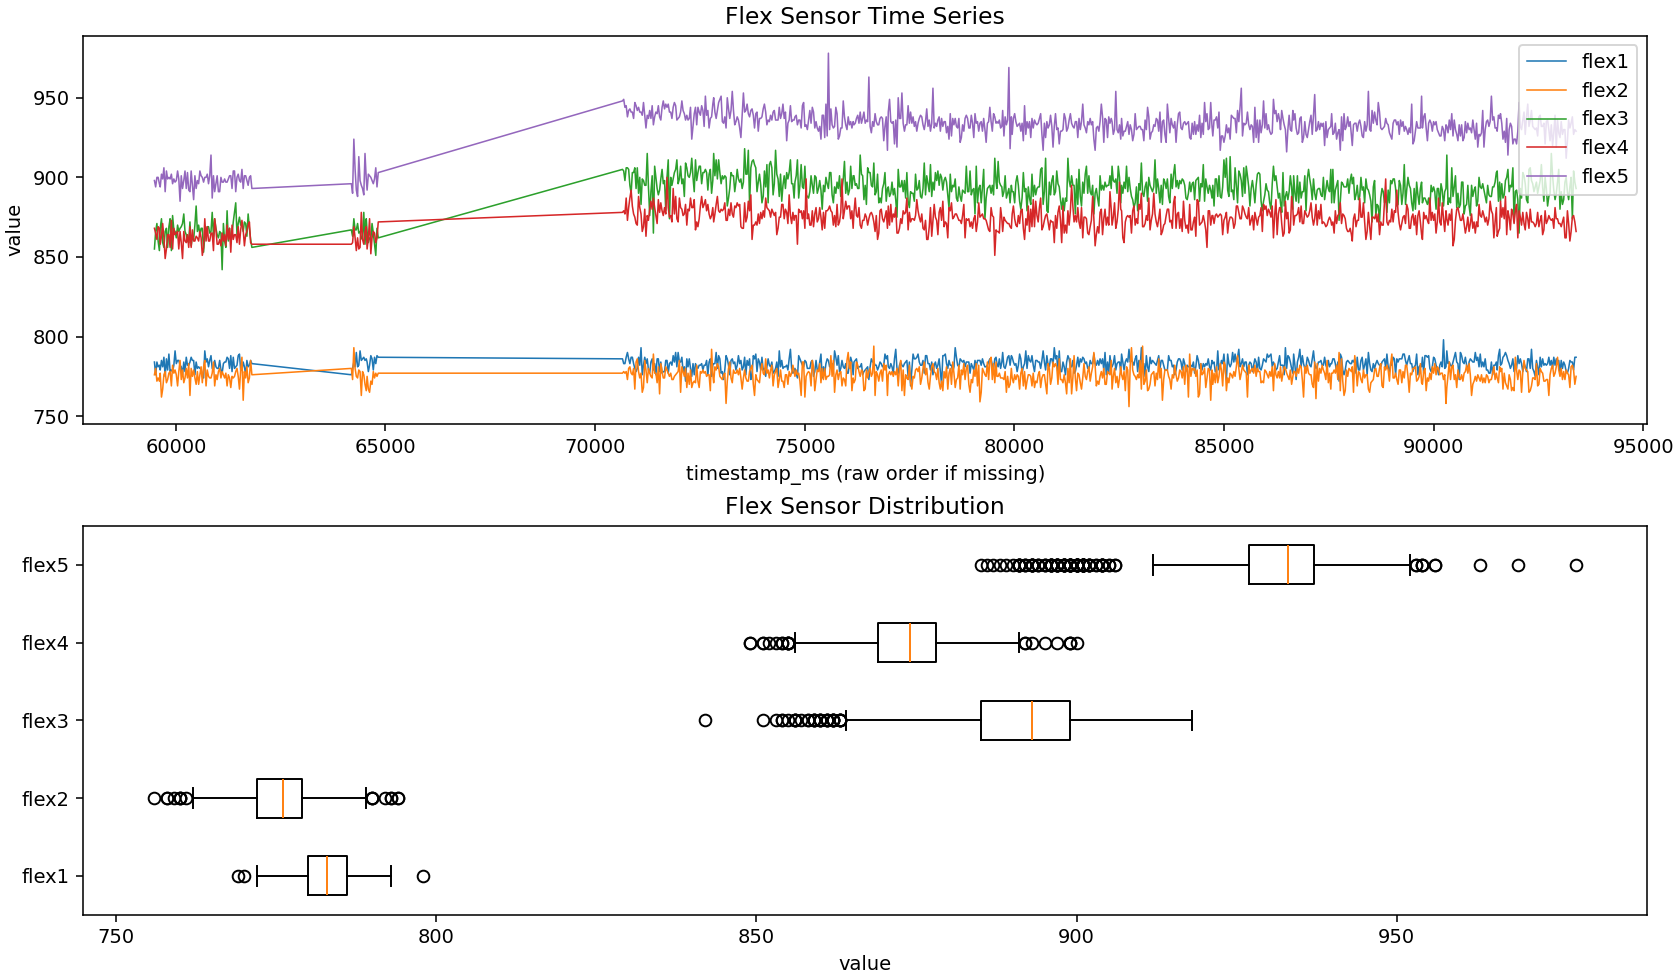
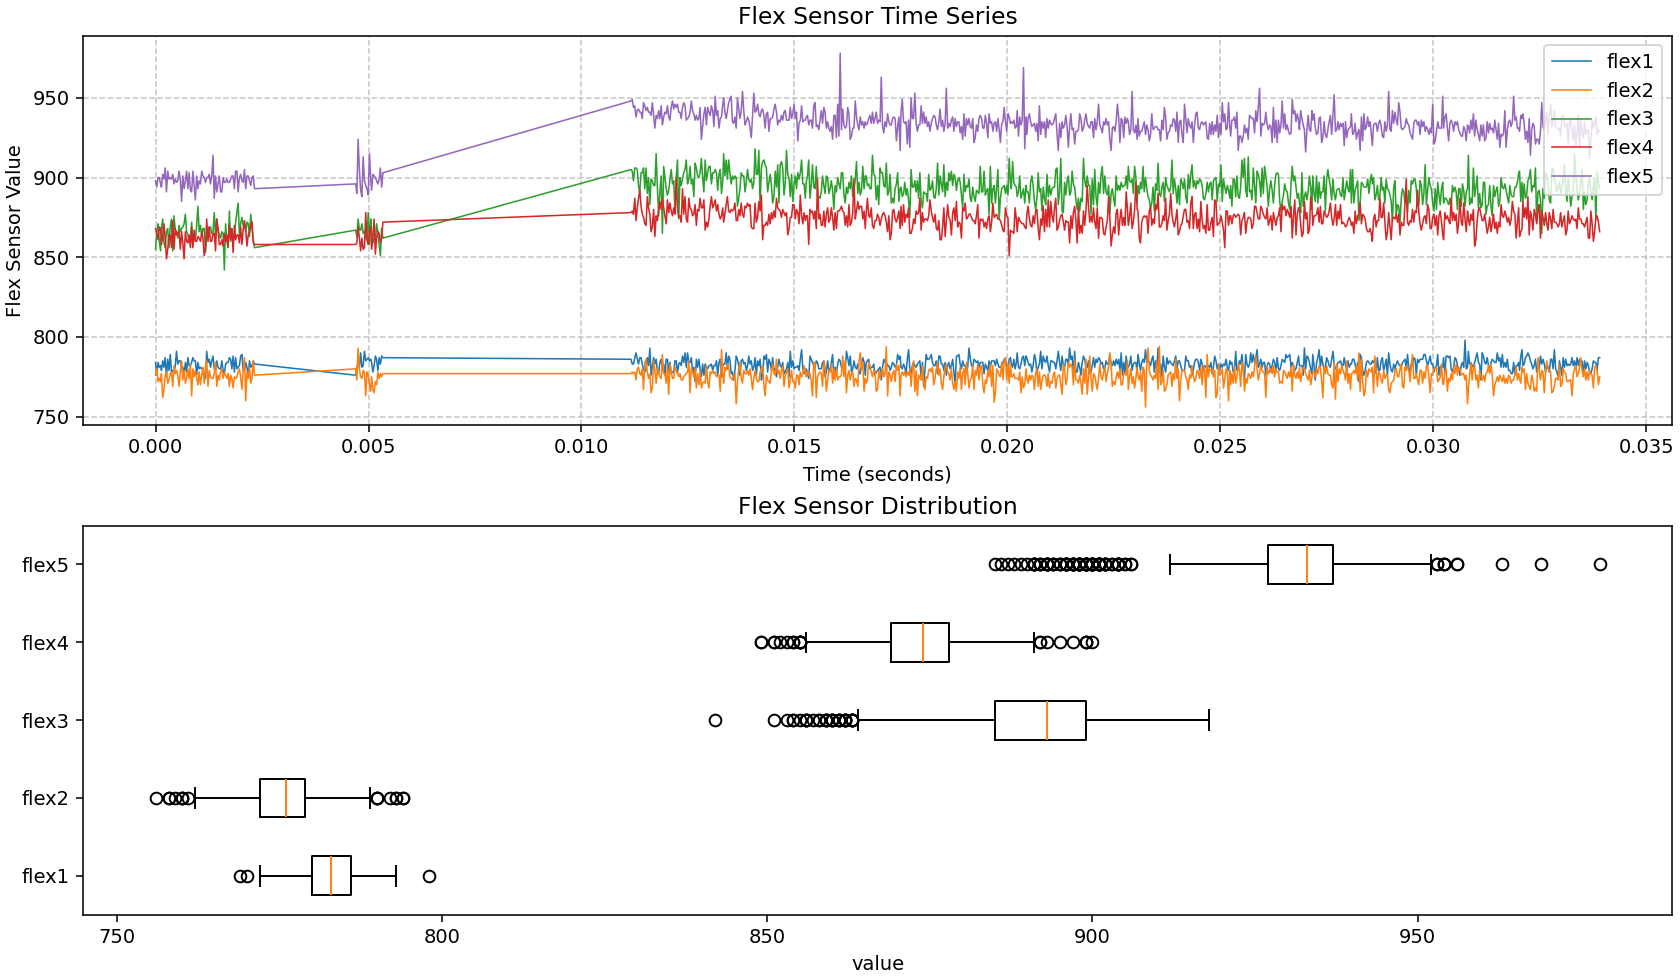
fix plot_datasets_unified.py & datasetplots

diff --git a/plot_datasets_unified.py b/plot_datasets_unified.py
@@ -1,6 +1,7 @@
 from __future__ import annotations
 
 import argparse
+import numpy as np
 from pathlib import Path
 from flexplot import downsample, iter_group_dirs, load_series, plot_flex
 
@@ -30,6 +31,23 @@ def parse_args() -> argparse.Namespace:
     return parser.parse_args()
 
 
+def process_timestamps(timestamps: np.ndarray) -> np.ndarray:
+    """타임스탬프를 정규화하고 유효성을 검사합니다."""
+    if len(timestamps) == 0:
+        return np.array([])
+    
+    # 첫 번째 타임스탬프를 0으로 하여 상대적 시간으로 변환
+    t_start = timestamps[0]
+    normalized = (timestamps - t_start) / 1000.0  # 밀리초를 초로 변환
+    
+    # 비정상적인 타임스탬프 검출 (예: 큰 점프나 음수 값)
+    if np.any(np.diff(normalized) < 0) or np.any(normalized > 60):  # 60초 이상은 비정상으로 간주
+        # 인덱스 기반 시간으로 대체
+        print("⚠ 비정상 타임스탬프 감지됨 - 인덱스 기반 시간으로 대체")
+        return np.arange(len(timestamps)) * (1.0/33.3)  # 33.3Hz 기준
+    
+    return normalized
+
 def main() -> None:
     args = parse_args()
     root = args.root.expanduser().resolve()
@@ -48,13 +66,27 @@ def main() -> None:
     for letter, index, folder in groups:
         label = letter if index is None else f"{letter}/{index}"
         print(f"Plotting {label} from {folder}")
-        timestamps, series = load_series(folder)
-        ts_ds, series_ds = downsample(timestamps, series, ds_target)
-        target_dir = save_dir / letter
-        if index is not None:
-            target_dir /= index
-        outfile = target_dir / "flex.png"
-        plot_flex(ts_ds, series_ds, series, outfile)
+        try:
+            timestamps, series = load_series(folder)
+            
+            # 타임스탬프 정규화 및 처리
+            normalized_timestamps = process_timestamps(timestamps)
+            
+            # 다운샘플링
+            ts_ds, series_ds = downsample(normalized_timestamps, series, ds_target)
+            
+            # 저장 경로 설정 및 플롯 생성
+            target_dir = save_dir / letter
+            if index is not None:
+                target_dir /= index
+            outfile = target_dir / "flex.png"
+            
+            # 플롯 생성
+            plot_flex(ts_ds, series_ds, series, outfile)
+            
+        except Exception as e:
+            print(f"⚠ {label} 처리 중 오류 발생: {e}")
+            continue  # 오류가 발생해도 다음 파일 처리 계속
 
 
 if __name__ == "__main__":

diff --git a/flexplot.py b/flexplot.py
@@ -42,11 +42,12 @@ def load_series(root: Path) -> Tuple[np.ndarray, Dict[str, np.ndarray]]:
         ts_raw = row.get("timestamp_ms")
         if ts_raw:
             try:
-                timestamps.append(float(ts_raw))
+                ts_val = float(ts_raw)
+                timestamps.append(ts_val)
             except ValueError:
-                timestamps.append(float(len(timestamps)))
+                continue  # 잘못된 타임스탬프는 건너뜀
         else:
-            timestamps.append(float(len(timestamps)))
+            continue  # 타임스탬프 없는 행은 건너뜀
 
         for col in FLEX_COLS:
             val = row.get(col, "")
@@ -103,11 +104,19 @@ def plot_flex(
     """Create time-series and boxplot figure."""
     fig, axes = plt.subplots(2, 1, figsize=(12, 7), constrained_layout=True)
 
+    # 타임스탬프를 0초부터 시작하도록 정규화
+    if len(timestamps) > 0:
+        t_start = timestamps[0]
+        t_seconds = (timestamps - t_start) / 1000.0  # ms를 초로 변환
+    else:
+        t_seconds = np.array([])
+
     for col in FLEX_COLS:
-        axes[0].plot(timestamps, series[col], linewidth=0.8, label=col)
+        axes[0].plot(t_seconds, series[col], linewidth=0.8, label=col)
     axes[0].set_title("Flex Sensor Time Series")
-    axes[0].set_xlabel("timestamp_ms (raw order if missing)")
-    axes[0].set_ylabel("value")
+    axes[0].set_xlabel("Time (seconds)")
+    axes[0].set_ylabel("Flex Sensor Value")
+    axes[0].grid(True, linestyle='--', alpha=0.7)
     axes[0].legend(loc="upper right")
 
     clean = [full_series[col][~np.isnan(full_series[col])] for col in FLEX_COLS]
